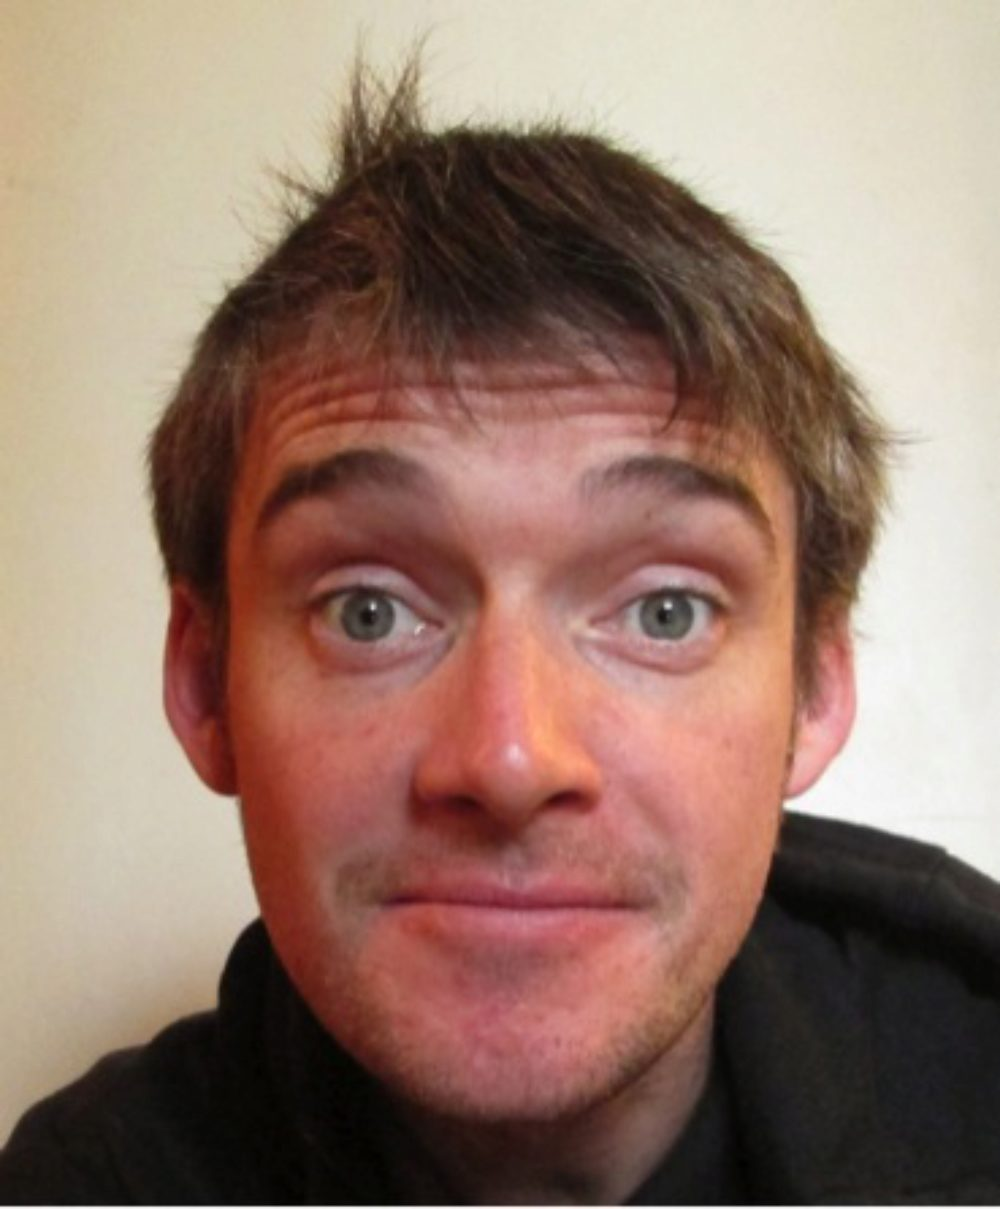
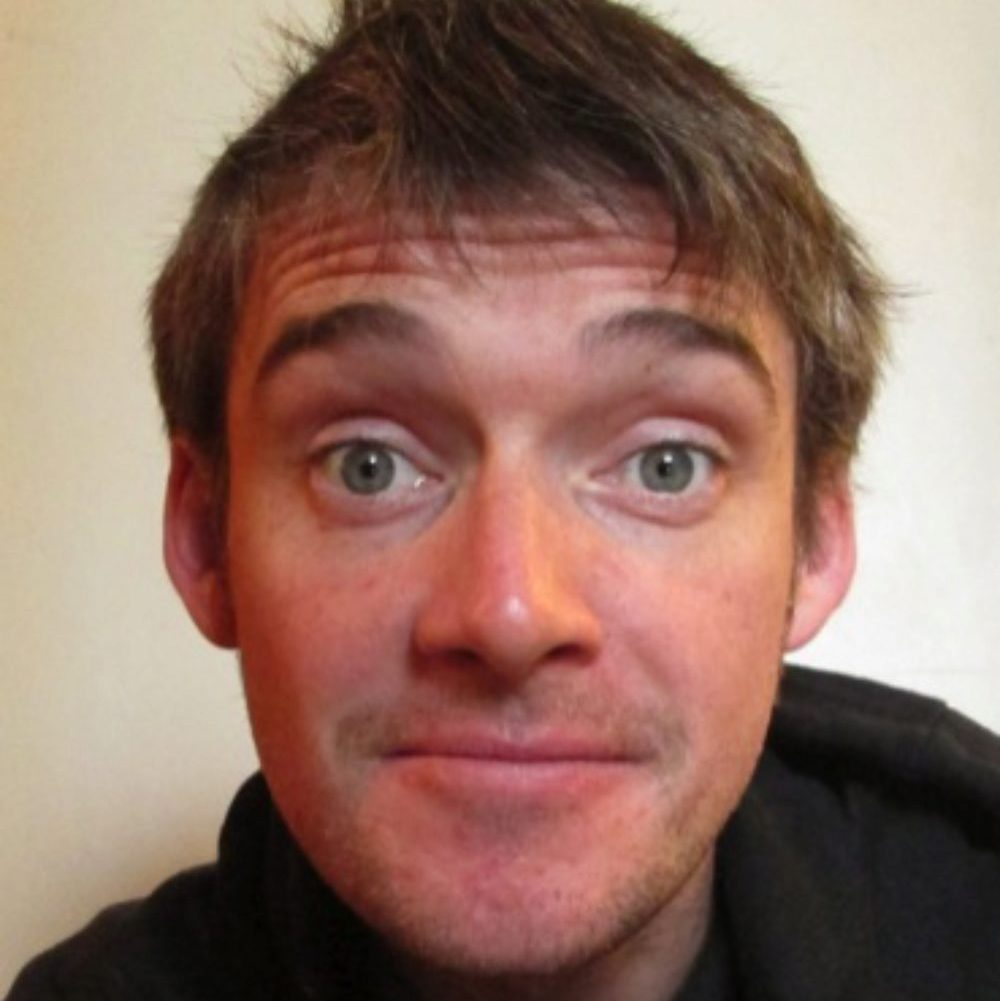
Replace workshop images with 1:1 versions

diff --git a/_workshops/we-dont-need-no-language.md b/_workshops/we-dont-need-no-language.md
@@ -5,7 +5,7 @@ date: 2016-10-21
 title: workshops.titles.we_dont_need_no_language 
 country: reu
 name: Keng-Sam Chane Chick Té
-image: workshops/keng-1.jpg
+image: workshops/keng-2.jpg
 price: 20
 venue: vene
 ---

diff --git a/_workshops/silence-is-golden.md b/_workshops/silence-is-golden.md
@@ -5,7 +5,7 @@ date: 2016-10-20
 title: workshops.titles.silence_is_golden    
 country: fin
 name: Kaisa Kokko
-image: workshops/kaisa-1.jpg
+image: workshops/kaisa-2.jpg
 price: 20
 venue: vene
 ---
